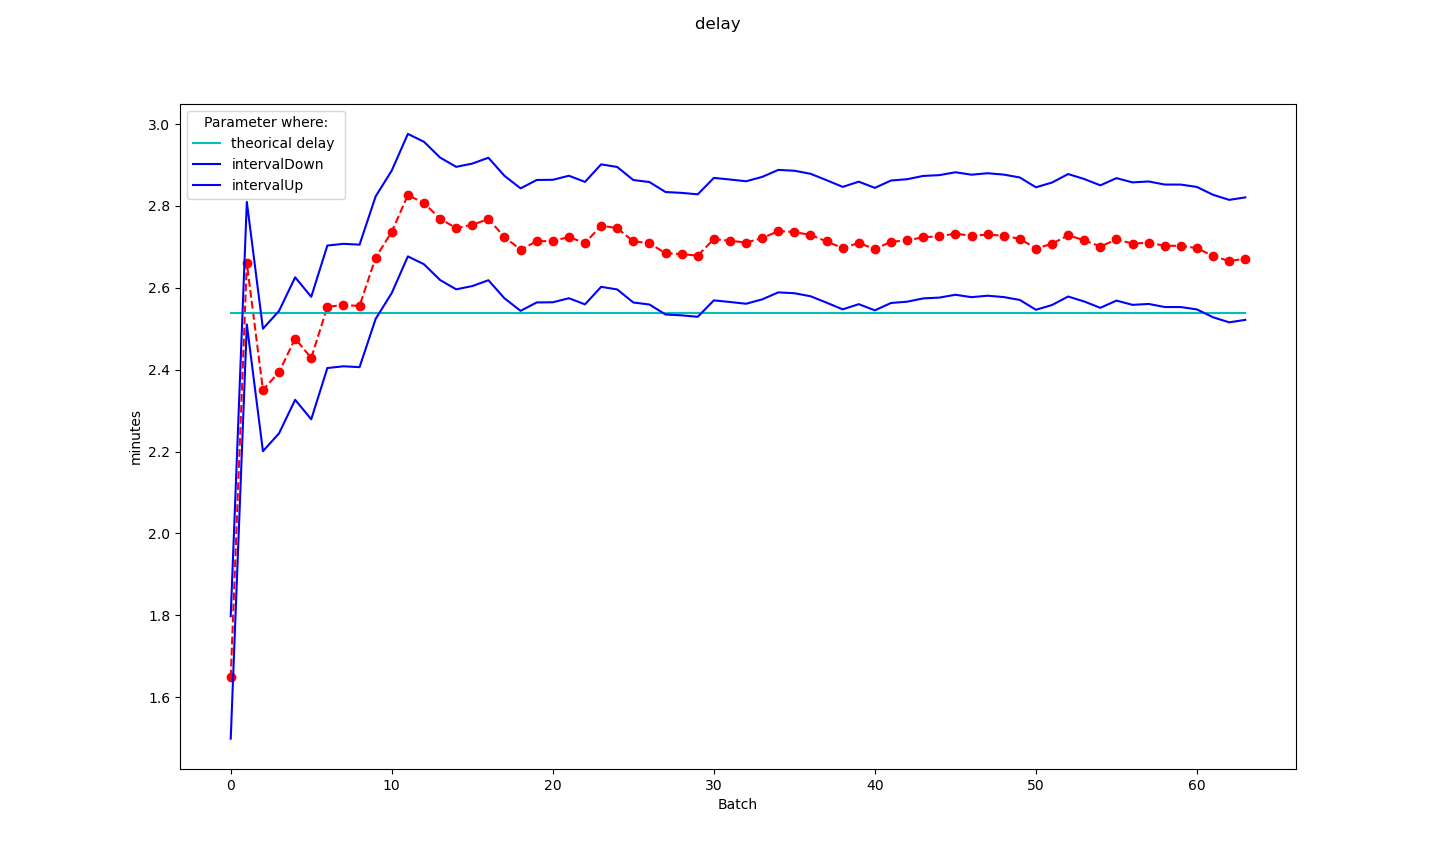
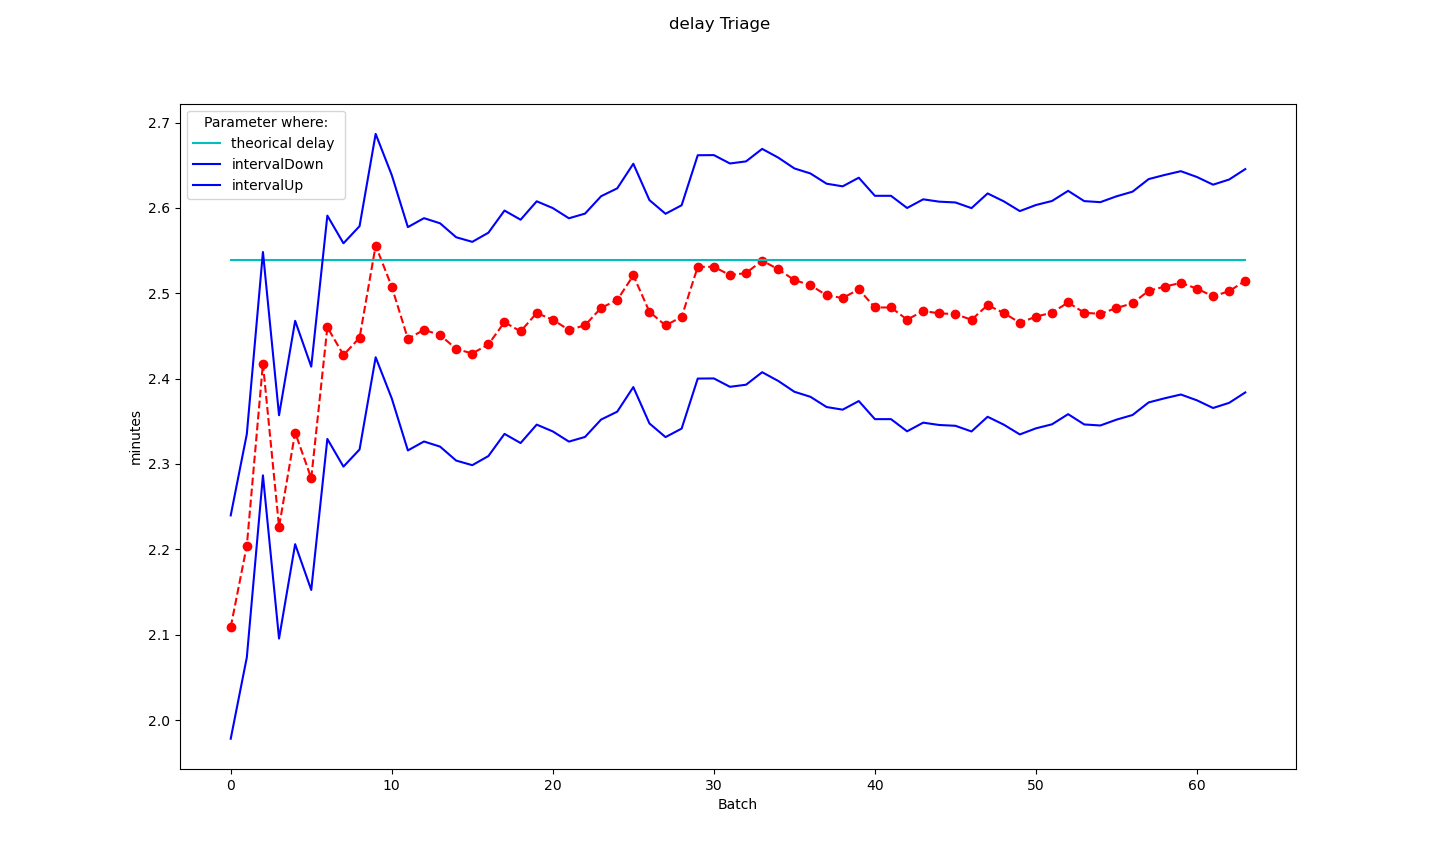
altri grafici

diff --git a/Simulatore_ProntoSoccorso/Simulatore.c b/Simulatore_ProntoSoccorso/Simulatore.c
@@ -9,7 +9,7 @@
 
 /*  USED STREAMS:
         0-4:    for each service completion random generation
-        5:      for triage arrival time generation  
+        22 (ex 5):      for triage arrival time generation  
         6:      to generate the code assigned to smeone after he passes the triage
         7:      to generate the variable that let us decide if someone in red code dies or not
         8:      to decide wich node will take someone after he gets the code color yellow or green
@@ -57,7 +57,7 @@ double getArrival(){
  * return the next arrival time
  * ----------------------------
  */
-    SelectStream(5);
+    SelectStream(22);
     arrival+=Exponential(1/0.09);
     return arrival;
 }
@@ -269,7 +269,7 @@ int simulatore(output matrix[][15],double decessi[], int iteration, int finite, 
             if(numJobInBatch==currentJob[4] && currentBatch[4]<numBatch)
             {
                 
-                 //total
+                //total
                 writeStats(matrix[currentBatch[4]],medicalStats,4);
                 initOutputStats(&medicalStats,SERVERSMEDICAL);
                 initTime(&medicalStats,t.current);
